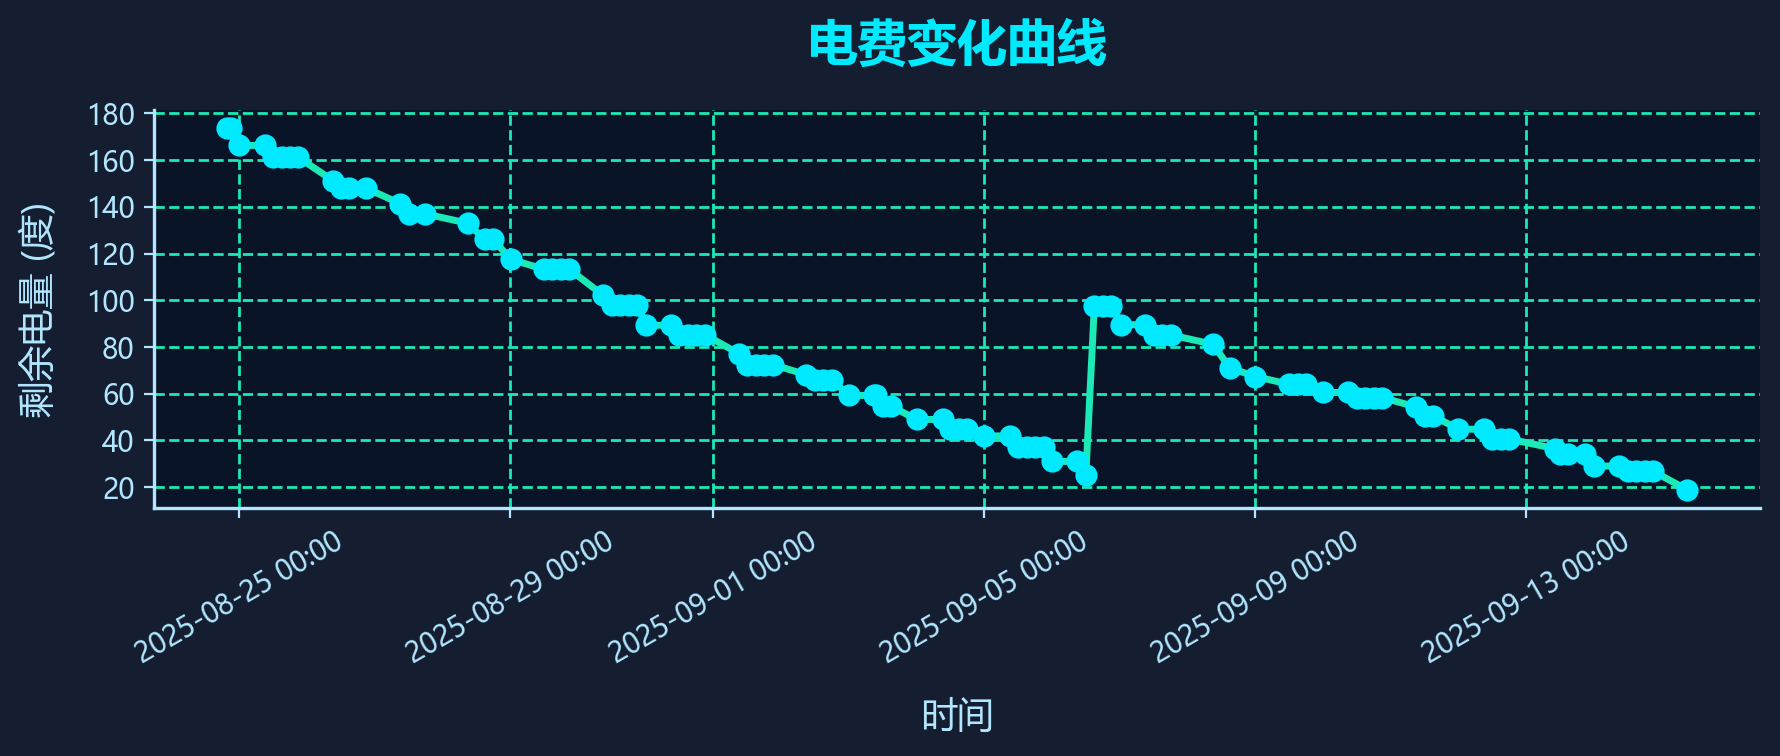
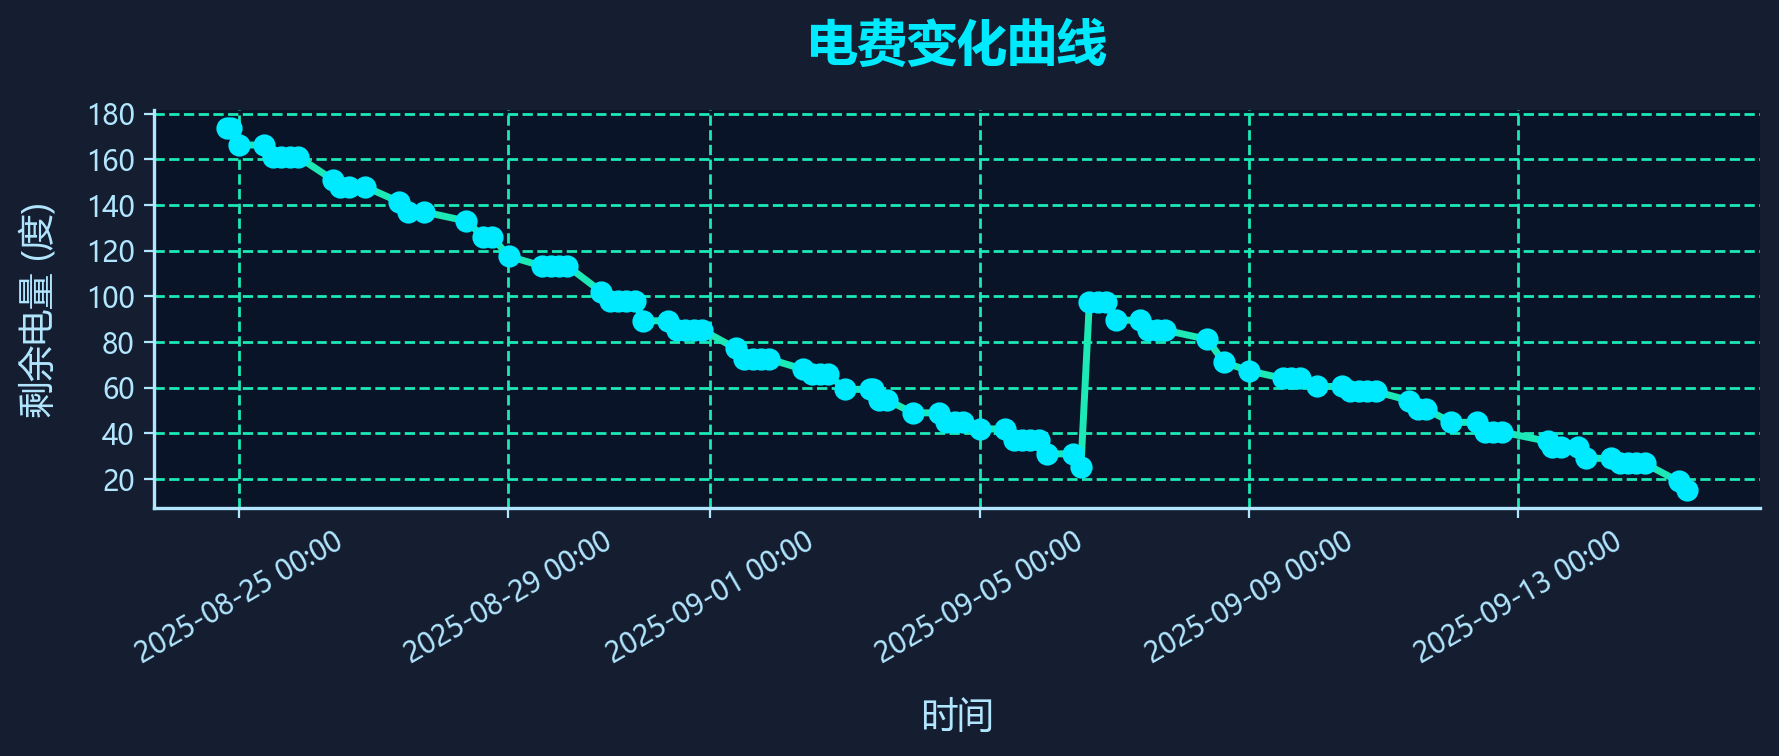
2025-09-15 12:03 自动提交电费变更

diff --git a/data/debug_page_source.html b/data/debug_page_source.html
@@ -2,7 +2,7 @@
     <meta http-equiv="Content-Type" content="text/html; charset=UTF-8">
     <meta http-equiv="X-UA-Compatible" content="IE=edge">
     <meta name="viewport" content="width=device-width, initial-scale=1, user-scalable=no">
-    <meta name="_csrf" content="30a4e405-1e4e-436b-a5f7-16cb534f50fa">
+    <meta name="_csrf" content="aab1875b-ed94-4526-b815-7381897b1552">
     <meta name="_csrf_header" content="X-CSRF-TOKEN">
     <link type="image/png" href="/epay/images/nju/icon.png" rel="shortcut icon">
     <link type="text/css" rel="stylesheet" href="/epay/css/wxpage/weui.min.css">
@@ -32,7 +32,7 @@
 
 
 <body>
-<div id="app"><div class="centent"><div class="top"><div class="clearfix"><span class="fl">持卡人姓名：<i>吴相民</i></span></div> <div class="clearfix"><span class="fl">校园卡余额：<i class="green">133.72元</i></span></div></div> <div class="line"></div> <div class="cont"><div class="clearfix"><span class="fl">缴费地址：<i>仙林校区 18幢 18栋第17层1702</i></span></div> <div class="clearfix"><span class="fl">剩余电量：<i>18.98度</i><em></em></span></div> <!----> <!----></div> <div class="num clearfix"><div style="display: flex; flex-wrap: wrap;"><span class="active">10元</span><span class="">20元</span><span class="">50元</span><span class="">100元</span><span class="">200元</span><span class="">自定义</span></div></div> <div class="inputbox" style="display: none;"><input type="text" placeholder="请输入充值金额" pattern="[0-9]*" maxlength="4" id="amount"></div> <div class="footer">充值</div> <div class="desc">充值时间：每天00:05-23:55</div> <div class="wapat"><div class="wapat-inner"><div class="wapat-title">错误！</div> <div class="wapat-btn-box"><div class="wapat-btn wapat-btn-ok">确定</div></div></div></div></div></div>
+<div id="app"><div class="centent"><div class="top"><div class="clearfix"><span class="fl">持卡人姓名：<i>吴相民</i></span></div> <div class="clearfix"><span class="fl">校园卡余额：<i class="green">133.70元</i></span></div></div> <div class="line"></div> <div class="cont"><div class="clearfix"><span class="fl">缴费地址：<i>仙林校区 18幢 18栋第17层1702</i></span></div> <div class="clearfix"><span class="fl">剩余电量：<i>15.38度</i><em></em></span></div> <!----> <!----></div> <div class="num clearfix"><div style="display: flex; flex-wrap: wrap;"><span class="active">10元</span><span class="">20元</span><span class="">50元</span><span class="">100元</span><span class="">200元</span><span class="">自定义</span></div></div> <div class="inputbox" style="display: none;"><input type="text" placeholder="请输入充值金额" pattern="[0-9]*" maxlength="4" id="amount"></div> <div class="footer">充值</div> <div class="desc">充值时间：每天00:05-23:55</div> <div class="wapat"><div class="wapat-inner"><div class="wapat-title">错误！</div> <div class="wapat-btn-box"><div class="wapat-btn wapat-btn-ok">确定</div></div></div></div></div></div>
 
 
 
